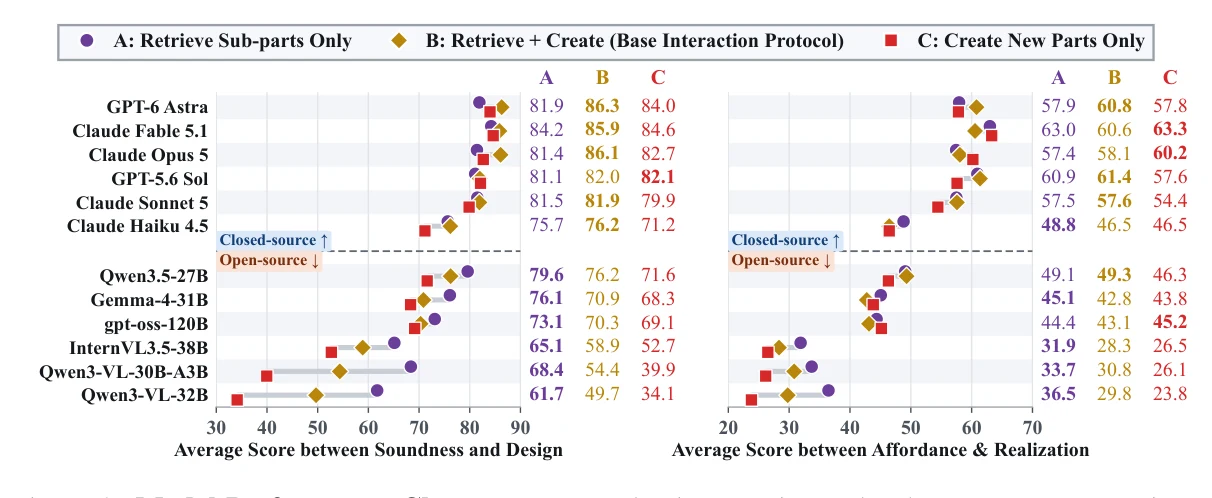
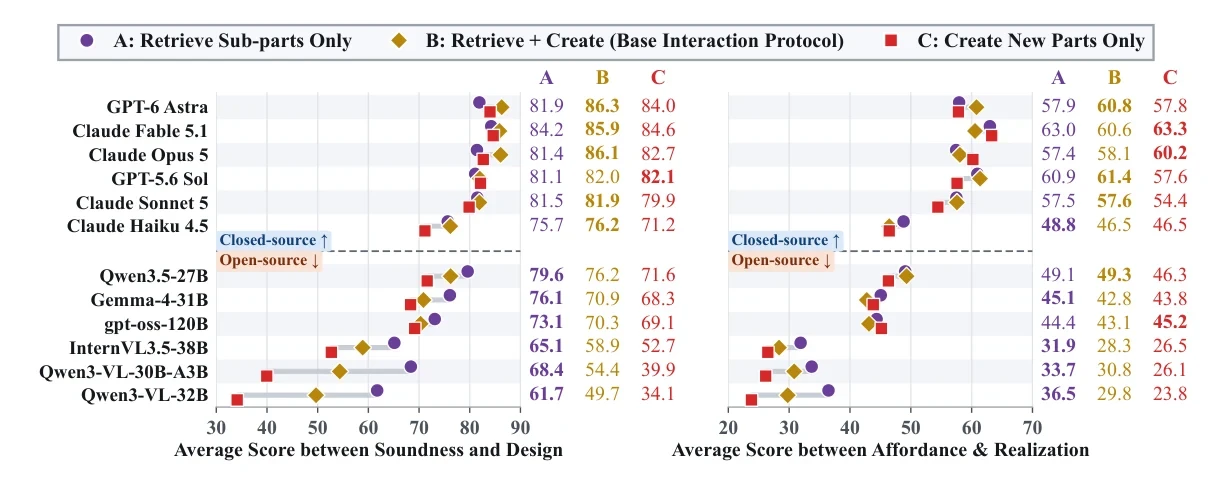
Project page: 70% width layout, two-row title, every text block within three lines, discussion as text over wide figures, crop caption fragments off figs 3-4

diff --git a/index.html b/index.html
@@ -22,7 +22,7 @@
      hero: name, question, authors, links
      ================================================================== -->
 <header class="container hero" id="overview">
-  <h1 class="title"><img class="tlogo" src="assets/icon.png" alt="LMBuild logo"><span class="ttext"><span class="wordmark">LMBuild</span>: Evaluating LLM Agents for Generating Buildable and Functional Structures</span></h1>
+  <h1 class="title"><img class="tlogo" src="assets/icon.png" alt="LMBuild logo"><span class="ttext"><span class="tl"><span class="wordmark">LMBuild</span>: Evaluating LLM Agents for Generating</span><span class="tl">Buildable and Functional Structures</span></span></h1>
 
   <p class="authors">
     <span class="au">Jiateng Liu</span><span class="au">Rushi Wang</span><span class="au">Cheng Qian</span><span class="au">Xuejun Zhang</span>
@@ -43,10 +43,9 @@
 
   <p class="lede">Can an LLM agent build an object that does more than look right: one that is
   <span class="kw-in">functional</span> as intended and <span class="kw-out">buildable</span> in the real world?</p>
-  <p class="hero-body">We introduce <strong>LMBuild</strong>, a benchmark for evaluating LLM agents on generating buildable and
-  functional structures. Given a <span class="k3">text prompt</span> and an <span class="k3">image</span>, an agent uses tools to
-  retrieve, create and place parts, then declares the <span class="k3">joints</span>, <span class="k3">materials</span> and
-  <span class="k3">assembly sequence</span> that turn its geometry into something that could be fabricated and operated.</p>
+  <p class="hero-body"><strong>LMBuild</strong> evaluates LLM agents on building structures from a <span class="k3">text prompt</span> and an
+  <span class="k3">image</span>: agents retrieve, create and place parts, then declare the <span class="k3">joints</span>,
+  <span class="k3">materials</span> and <span class="k3">assembly sequence</span> that make a design buildable and functional.</p>
   <p class="hero-meta">
     <span><b>30</b> systems evaluated</span>
     <span><b>200</b> core tasks</span>
@@ -60,9 +59,8 @@
      ================================================================== -->
 <section class="container sec" id="task" aria-label="The task">
   <h2 class="part-head"><span class="eyebrow">The task</span>From a photo and one sentence to an assembled structure</h2>
-  <p class="sec-lede">Each task gives the agent an <span class="kw-in">input image</span> and a short
-  <span class="kw-in">instruction</span>. The agent builds the object part by part; each frame below adds the parts of one
-  placement step. These six are real product-level builds from LMBuild-Core.</p>
+  <p class="sec-lede">Each task gives the agent an <span class="kw-in">input image</span> and a one-line
+  <span class="kw-in">instruction</span>. Each frame adds the parts of one placement step. Six real product-level builds:</p>
   <div class="flow six" id="teaser"></div>
   <div class="card figure" style="margin-top:2.5rem">
     <img src="assets/paper/fig1.webp" alt="LMBuild framework: a builder agent inspects, selects, creates and places parts, then declares joints, materials and an assembly sequence" loading="lazy">
@@ -76,9 +74,8 @@
 <section class="container sec" id="takeaways" aria-label="Key takeaways">
   <h2 class="part-head"><span class="eyebrow">Findings</span>Key takeaways</h2>
   <ul class="takeaways">
-    <li><span class="ix">1</span><p><b>Looking right is no longer the bottleneck; working right is.</b> Frontier closed models score
-      in the high 80s on structural soundness and around 70 on design. On joints and kinematics (A.3) the best system reaches
-      42.7, and on simulated operability (R.3) none passes 22.1.</p></li>
+    <li><span class="ix">1</span><p><b>Looking right is no longer the bottleneck; working right is.</b> Frontier models score in the
+      high 80s on soundness and around 70 on design, but at most 42.7 on kinematics (A.3) and 22.1 on simulated operability (R.3).</p></li>
     <li><span class="ix">2</span><p><b>Strong models create, weaker models retrieve.</b> Frontier agents gain from authoring their
       own parts. Weaker models lose ground once creation is allowed: Qwen3-VL-32B drops from 61.7 with retrieval only to 34.1 with
       creation only.</p></li>
@@ -97,9 +94,9 @@
      ================================================================== -->
 <section class="container sec" id="leaderboard" aria-label="Leaderboard">
   <h2 class="part-head"><span class="eyebrow">Results</span>Leaderboard</h2>
-  <p class="sec-lede">All 30 systems on LMBuild-Core under the baseline interaction protocol (retrieve and create parts).
-  Among LLM agents, <span class="k3">GPT-6 Astra</span> has the highest mean, closely followed by <span class="k3">Claude Fable 5.1</span>
-  and <span class="k3">Claude Opus 5</span>. <span class="k3">Qwen3.5-27B</span> is the strongest open model and edges out Claude Haiku 4.5.</p>
+  <p class="sec-lede">All 30 systems on LMBuild-Core under the baseline protocol (retrieve + create).
+  <span class="k3">GPT-6 Astra</span> leads the LLM agents, closely followed by <span class="k3">Claude Fable 5.1</span> and
+  <span class="k3">Claude Opus 5</span>; <span class="k3">Qwen3.5-27B</span> is the strongest open model.</p>
 
   <div class="levels" id="levels"></div>
 
@@ -207,40 +204,31 @@
   <h2 class="part-head"><span class="eyebrow">Analysis</span>Discussion</h2>
 
   <div class="find">
-    <div class="find-t">
-      <h3>Functional affordance and physical operability are the largest gaps</h3>
-      <p>Most systems build connected (S.1), collision-free (S.2) structures, and frontier models already produce reasonable
-      decompositions, appealing designs and reference-aligned shapes (D.1–D.3). Even the strongest systems remain imperfect on
-      functional geometry (A.1) and complete functional parts (A.2). Joints and kinematics (A.3) are hard for everyone: most open
-      models score below 25.</p>
-      <p>These gaps carry into realization. Agents name plausible assembly orders (R.1) and materials (R.2), but simulated
-      operability (R.3) stays low for every system.</p>
-    </div>
+    <h3>Functional affordance and physical operability are the largest gaps</h3>
+    <p>Most systems build connected, collision-free structures, and frontier models already produce sound decompositions and
+    aligned designs. Functional geometry (A.1) and parts (A.2) remain imperfect, and joints (A.3) are hard for all.</p>
+    <p>The gap carries into realization: agents name plausible assembly orders (R.1) and materials (R.2), but simulated
+    operability (R.3) stays low for every system.</p>
     <div class="card figure gapfig" id="gapfig" role="img" aria-label="Mean score per evaluation level for closed and open agents"></div>
   </div>
 
-  <div class="find flip">
-    <div class="find-t">
-      <h3>Strong models create, weaker models retrieve</h3>
-      <p>We compare three part-access protocols: retrieval only, retrieval plus creation (the baseline), and creation only.
-      Weaker models degrade sharply when they must author every part. Even offering creation alongside retrieval can hurt them,
-      because more freedom means more decisions.</p>
-      <p>Frontier models show the opposite trend. They choose to create when both tools are available and stay as strong, or get
-      stronger, when retrieval is removed. For them, the catalog is the constraint.</p>
-    </div>
-    <div class="card figure"><img src="assets/paper/fig3.webp" alt="Performance under three part-access settings" loading="lazy"><p class="cap" data-cap="Figure 3"></p></div>
+  <div class="find">
+    <h3>Strong models create, weaker models retrieve</h3>
+    <p>Weaker models degrade sharply when they must author every part, and even offering creation alongside retrieval can hurt
+    them: more freedom means more decisions.</p>
+    <p>Frontier models choose to create when both tools are available, and stay as strong or stronger without retrieval.
+    For them, the catalog is the constraint.</p>
+    <div class="card figure"><img src="assets/paper/fig3.webp" alt="Performance under three part-access settings" loading="lazy">
+      <p class="cap"><b>Figure 3.</b> Scores under retrieve-only (A), retrieve + create (B) and create-only (C), on 25 sampled objects.</p></div>
   </div>
 
   <div class="find">
-    <div class="find-t">
-      <h3>Tell the agent what the object must do</h3>
-      <p>Letting agents inspect error reports and revise for two more rounds gives steady but small gains, about 2 points overall.
-      Adding attribute and functional descriptions grounded in Wikipedia helps far more where models are weakest:
-      <strong>+10.3 on functional parts and +12.0 on operability</strong> (p&nbsp;&lt;&nbsp;0.001), plus better kinematics.</p>
-      <p>Agents are more reliable at turning stated functional constraints into structure than at inferring them from an object
-      name alone.</p>
-    </div>
-    <div class="card figure"><img src="assets/paper/fig4.webp" alt="Score change from revision rounds and richer prompts" loading="lazy"><p class="cap" data-cap="Figure 4"></p></div>
+    <h3>Tell the agent what the object must do</h3>
+    <p>Two extra rounds of inspecting error reports and revising add only about 2 points. Functional descriptions grounded in
+    Wikipedia add <strong>+10.3 on functional parts and +12.0 on operability</strong> (p&nbsp;&lt;&nbsp;0.001).</p>
+    <p>Agents turn stated functional constraints into structure far more reliably than they infer them from an object name alone.</p>
+    <div class="card figure"><img src="assets/paper/fig4.webp" alt="Score change from revision rounds and richer prompts" loading="lazy">
+      <p class="cap"><b>Figure 4.</b> Average score change from two revision rounds, attribute descriptions and functional descriptions (95% bootstrap CIs).</p></div>
   </div>
 </section>
 
@@ -251,16 +239,12 @@
   <div class="rail">
     <h2 class="part-head">FAQ</h2>
     <details class="qa"><summary>What is LMBuild?</summary><div class="qa-body">
-      <p>LMBuild evaluates LLM agents on generating 3D structures that can be built and that work. A generated object is an
-      <strong>assembled structure</strong>: a meaningful part decomposition, joints, materials and an assembly sequence. The
-      framework has three pieces: an interactive building environment, a curated benchmark built from established CAD datasets
-      and enriched with Wikipedia knowledge, and a four-level evaluation.</p>
+      <p>LMBuild tests whether LLM agents can generate 3D structures that can be built and that work. Each output is an
+      <strong>assembled structure</strong>: parts, joints, materials and an assembly sequence.</p>
     </div></details>
     <details class="qa"><summary>What does the agent get, and what must it produce?</summary><div class="qa-body">
-      <p>In the main setting the agent gets an object name and an image, for example <em>“According to image W1, build a
-      desk.”</em> Using tools, it inspects and selects catalog parts, creates new parts from code, and places and adjusts them.
-      It then declares joints, a material for each part and an assembly order. Other conditions add attribute or functional
-      descriptions, or drop the image.</p>
+      <p>An image and a one-line instruction, e.g. <em>“According to image W1, build a desk.”</em> The agent retrieves or
+      creates parts, places them, then declares joints, materials and an assembly order.</p>
     </div></details>
     <details class="qa"><summary>What are the interaction protocols?</summary><div class="qa-body">
       <ul>
@@ -270,20 +254,17 @@
       </ul>
     </div></details>
     <details class="qa"><summary>How is a build scored?</summary><div class="qa-body">
-      <p>Twelve metrics in four levels. <strong>Soundness</strong>: connectivity, collision and stability, by rule-based geometry
-      checks. <strong>Affordance</strong>: functional geometry against the reference, plus Wikipedia-grounded part and kinematics
-      checks. <strong>Design</strong>: decomposition, aesthetics and alignment, by human-calibrated VLM judges with rule-based
-      parts. <strong>Realization</strong>: assembly sequence, material choice and simulated operability.</p>
+      <p>Twelve metrics in four levels: <strong>soundness</strong> (connectivity, collision, stability), <strong>affordance</strong>
+      (geometry, parts, kinematics), <strong>design</strong> (decomposition, aesthetics, alignment) and <strong>realization</strong>
+      (sequence, material, operability).</p>
     </div></details>
     <details class="qa"><summary>Which systems are evaluated?</summary><div class="qa-body">
-      <p>Six frontier closed-source APIs, thirteen open-source (multimodal) LLMs, and eleven domain-specific generators: brick
-      models (BrickGPT, LegoACE), part-aware 3D generators (PartCrafter, PartPacker, Cube3D with CubePart), the same generators
-      with Particulate for joints, and PhysX-Anything.</p>
+      <p>Six frontier closed-source APIs, thirteen open-source LLMs and eleven domain-specific generators: BrickGPT, LegoACE,
+      PartCrafter, PartPacker, Cube3D + CubePart, their Particulate variants and PhysX-Anything.</p>
     </div></details>
     <details class="qa"><summary>Where do the tasks come from?</summary><div class="qa-body">
-      <p>LMBuild repurposes BrickNet, BrickComposer, PartNeXt, the Fusion 360 Gallery (Joinable), Artiverse and open-source
-      hardware CAD, and grounds each object in verified Wikipedia and Wikidata knowledge. <strong>LMBuild-Core</strong> has 200
-      tasks and <strong>LMBuild-Full</strong> has 2,549. The <a class="a-body" href="#benchmark" data-goto="data">Dataset</a> tab lists them.</p>
+      <p>LMBuild-Core (200 tasks) and LMBuild-Full (2,549) repurpose BrickNet, BrickComposer, PartNeXt, Fusion 360 Gallery,
+      Artiverse and open-source hardware CAD, grounded in Wikipedia and Wikidata. See the <a class="a-body" href="#benchmark" data-goto="data">Dataset</a> tab.</p>
     </div></details>
   </div>
 </section>

diff --git a/site.css b/site.css
@@ -28,8 +28,8 @@
   --t-h4:1.125rem;
   --t-p1:1.0625rem; --l-p1:1.75rem;
   --t-p2:.875rem;   --l-p2:1.45rem;
-  --container:76rem;
-  --rail:46rem;
+  --container:max(76rem, 70vw);
+  --rail:max(46rem, 52vw);
   --pad:16px;
   --r-md:.625rem; --r-lg:1rem; --r-pill:2.5rem;
   --ease:cubic-bezier(.25,.1,.25,1);
@@ -99,15 +99,18 @@ b,strong{font-weight:600}
 .hero{padding-top:clamp(2.5rem,7vw,5rem);text-align:center}
 .projlogo{display:flex;justify-content:center;margin-bottom:1.5rem}
 .projlogo img{width:clamp(4.5rem,9vw,6.25rem);height:auto;filter:drop-shadow(0 10px 24px rgba(13,44,82,.18))}
-.title{display:flex;align-items:center;justify-content:center;gap:clamp(.75rem,2vw,1.4rem);max-width:66rem;margin:0 auto;
-  font-size:clamp(1.6rem,1.05rem + 2.3vw,3rem);line-height:1.14;letter-spacing:-.03em;font-weight:650;text-align:left}
+.title{display:flex;align-items:center;justify-content:center;gap:clamp(.75rem,2vw,1.4rem);max-width:none;margin:0 auto;
+  font-size:clamp(1.5rem,2.3vw,3.1rem);line-height:1.14;letter-spacing:-.03em;font-weight:650;text-align:left}
 .title .tlogo{flex:0 0 auto;width:clamp(3.4rem,2.4rem + 4.2vw,6.6rem);height:auto;filter:drop-shadow(0 10px 22px rgba(13,44,82,.18))}
 .title .ttext{text-wrap:balance}
+.title .tlogo{width:auto;height:2.35em}
+.title .tl{display:block}
+@media (min-width:900px){ .title .tl{white-space:nowrap} }
 @media (max-width:560px){ .title{flex-direction:column;text-align:center} }
 .wordmark{font-weight:800;letter-spacing:-.045em;background:linear-gradient(100deg,var(--navy) 10%,var(--teal) 90%);
   -webkit-background-clip:text;background-clip:text;color:transparent}
 .tsub{display:block;margin-top:.5rem;font-size:.5em;line-height:1.25;font-weight:500;color:var(--ink-80);letter-spacing:-.02em}
-.authors{margin:2rem auto 0;max-width:52rem;font-size:1rem;line-height:1.9;font-weight:500}
+.authors{margin:2rem auto 0;max-width:var(--rail);font-size:1rem;line-height:1.9;font-weight:500}
 .authors .au{display:inline-block;white-space:nowrap;margin:0 .55em}
 .authors .au.first{color:var(--navy)}
 .orgs{margin:1rem 0 0;display:flex;justify-content:center}
@@ -119,8 +122,8 @@ b,strong{font-weight:600}
 .lk-text span{font-size:.8125rem;color:var(--ink-60);font-weight:500}
 .mails{margin:.25rem 0 0;font-size:.8125rem;color:var(--ink-60);font-family:var(--mono);letter-spacing:0}
 .hero-links{display:flex;flex-wrap:wrap;justify-content:center;gap:.5rem;margin:2rem auto 0}
-.lede{margin:4.5rem auto 0;max-width:46rem;font-size:var(--t-h3);line-height:1.38;letter-spacing:-.022em;font-weight:500;text-wrap:balance}
-.hero-body{margin:1.5rem auto 0;max-width:46rem;color:var(--ink-80);text-wrap:pretty}
+.lede{margin:4.5rem auto 0;max-width:var(--rail);font-size:var(--t-h3);line-height:1.38;letter-spacing:-.022em;font-weight:500;text-wrap:balance}
+.hero-body{margin:1.5rem auto 0;max-width:var(--rail);color:var(--ink-80);text-wrap:pretty}
 .hero-meta{display:flex;flex-wrap:wrap;justify-content:center;gap:.5rem;margin:2rem auto 0}
 .hero-meta span{display:inline-flex;align-items:baseline;gap:.35rem;padding:.5rem 1rem;border-radius:var(--r-pill);background:rgba(255,255,255,.6);
   border:1px solid var(--line);font-size:.875rem;color:var(--ink-60)}
@@ -169,7 +172,7 @@ b,strong{font-weight:600}
 .tag.open{background:#ebeef2;color:#475569}
 
 /* --- takeaways ----------------------------------------------------------- */
-.takeaways{list-style:none;padding:0;display:grid;gap:.75rem;max-width:52rem;margin:0 auto}
+.takeaways{list-style:none;padding:0;display:grid;gap:.75rem;max-width:var(--rail);margin:0 auto}
 .takeaways li{display:grid;grid-template-columns:2.25rem 1fr;gap:.9rem;align-items:start;padding:1.1rem 1.25rem;background:rgba(255,255,255,.72);
   border:1px solid rgba(255,255,255,.8);border-radius:var(--r-lg);box-shadow:0 1px 2px rgba(13,44,82,.04)}
 .takeaways .ix{width:2.25rem;height:2.25rem;border-radius:.7rem;display:grid;place-items:center;color:#fff;font:700 .875rem/1 var(--sans);
@@ -295,7 +298,7 @@ details[open].drop summary::after,details[open].qa summary::after{transform:rota
 
 /* --- discussion ---------------------------------------------------------- */
 .find{display:grid;grid-template-columns:1fr;gap:1.5rem;align-items:center;margin-top:3rem}
-@media (min-width:960px){ .find{grid-template-columns:minmax(0,5fr) minmax(0,7fr)} .find.flip{grid-template-columns:minmax(0,7fr) minmax(0,5fr)} .find.flip .find-t{order:2} }
+
 .find h3{font-size:var(--t-h3);line-height:1.25;letter-spacing:-.02em;font-weight:600;margin-bottom:.75rem;text-wrap:balance}
 .find p{color:var(--ink-80);font-size:1rem;line-height:1.7}
 .find p + p{margin-top:.75rem}
@@ -400,3 +403,17 @@ details.qa summary:hover{color:var(--navy)}
 .mgrid.dense .mcard .who .mlogo,.mgrid.dense .mcard .who .glyph{margin-right:.3rem}
 .mgrid.dense .mcard .who{font-size:.72rem;letter-spacing:-.01em}
 .mgrid.dense .mcard .meta{padding:.45rem .55rem .55rem}
+
+/* discussion: text above a wide figure */
+.find{display:block;margin-top:3.5rem}
+.find > h3,.find > p{max-width:var(--rail);margin-left:auto;margin-right:auto;text-align:center}
+.find > h3{margin-bottom:.75rem}
+.find > .figure{max-width:min(100%,64rem);margin:1.5rem auto 0}
+.find > .gapfig{max-width:min(100%,46rem)}
+/* six-card strip: three lines at most per block */
+.flow.six .io-in .lab{display:none}
+.flow.six .io-in .q{display:-webkit-box;-webkit-line-clamp:3;-webkit-box-orient:vertical;overflow:hidden}
+.flow.six .io-in{min-height:0;align-items:center}
+.flow.six .io-cap .extra{display:none}
+.flow.six .io-cap{display:-webkit-box;-webkit-line-clamp:3;-webkit-box-orient:vertical;overflow:hidden}
+.sec-lede,.hero-body,.authors,.find > p,.cap{text-wrap:balance}

diff --git a/app.js b/app.js
@@ -291,7 +291,7 @@ Promise.all(["results", "captions", "objects", "media", "inputs", "explore/index
   if (M) {
     MEDIA = M;
     const teaser = (M.step || []).filter(m => m.teaser).slice(0, 6);
-    $("#teaser").innerHTML = teaser.map(m => ioCard(m, {extra: `<br><span class="muted">${share(m)}</span>`})).join("");
+    $("#teaser").innerHTML = teaser.map(m => ioCard(m)).join("");
     const PR = ["all", "baseline", "retrieval-only", "creation-only"];
     chips($("#stepf"), PR.map(p => [p, p === "all" ? "All" : cap(PLAB[p]), (M.step || []).filter(m => p === "all" || m.protocol === p).length]), drawSteps, "all");
     drawSteps("all");
